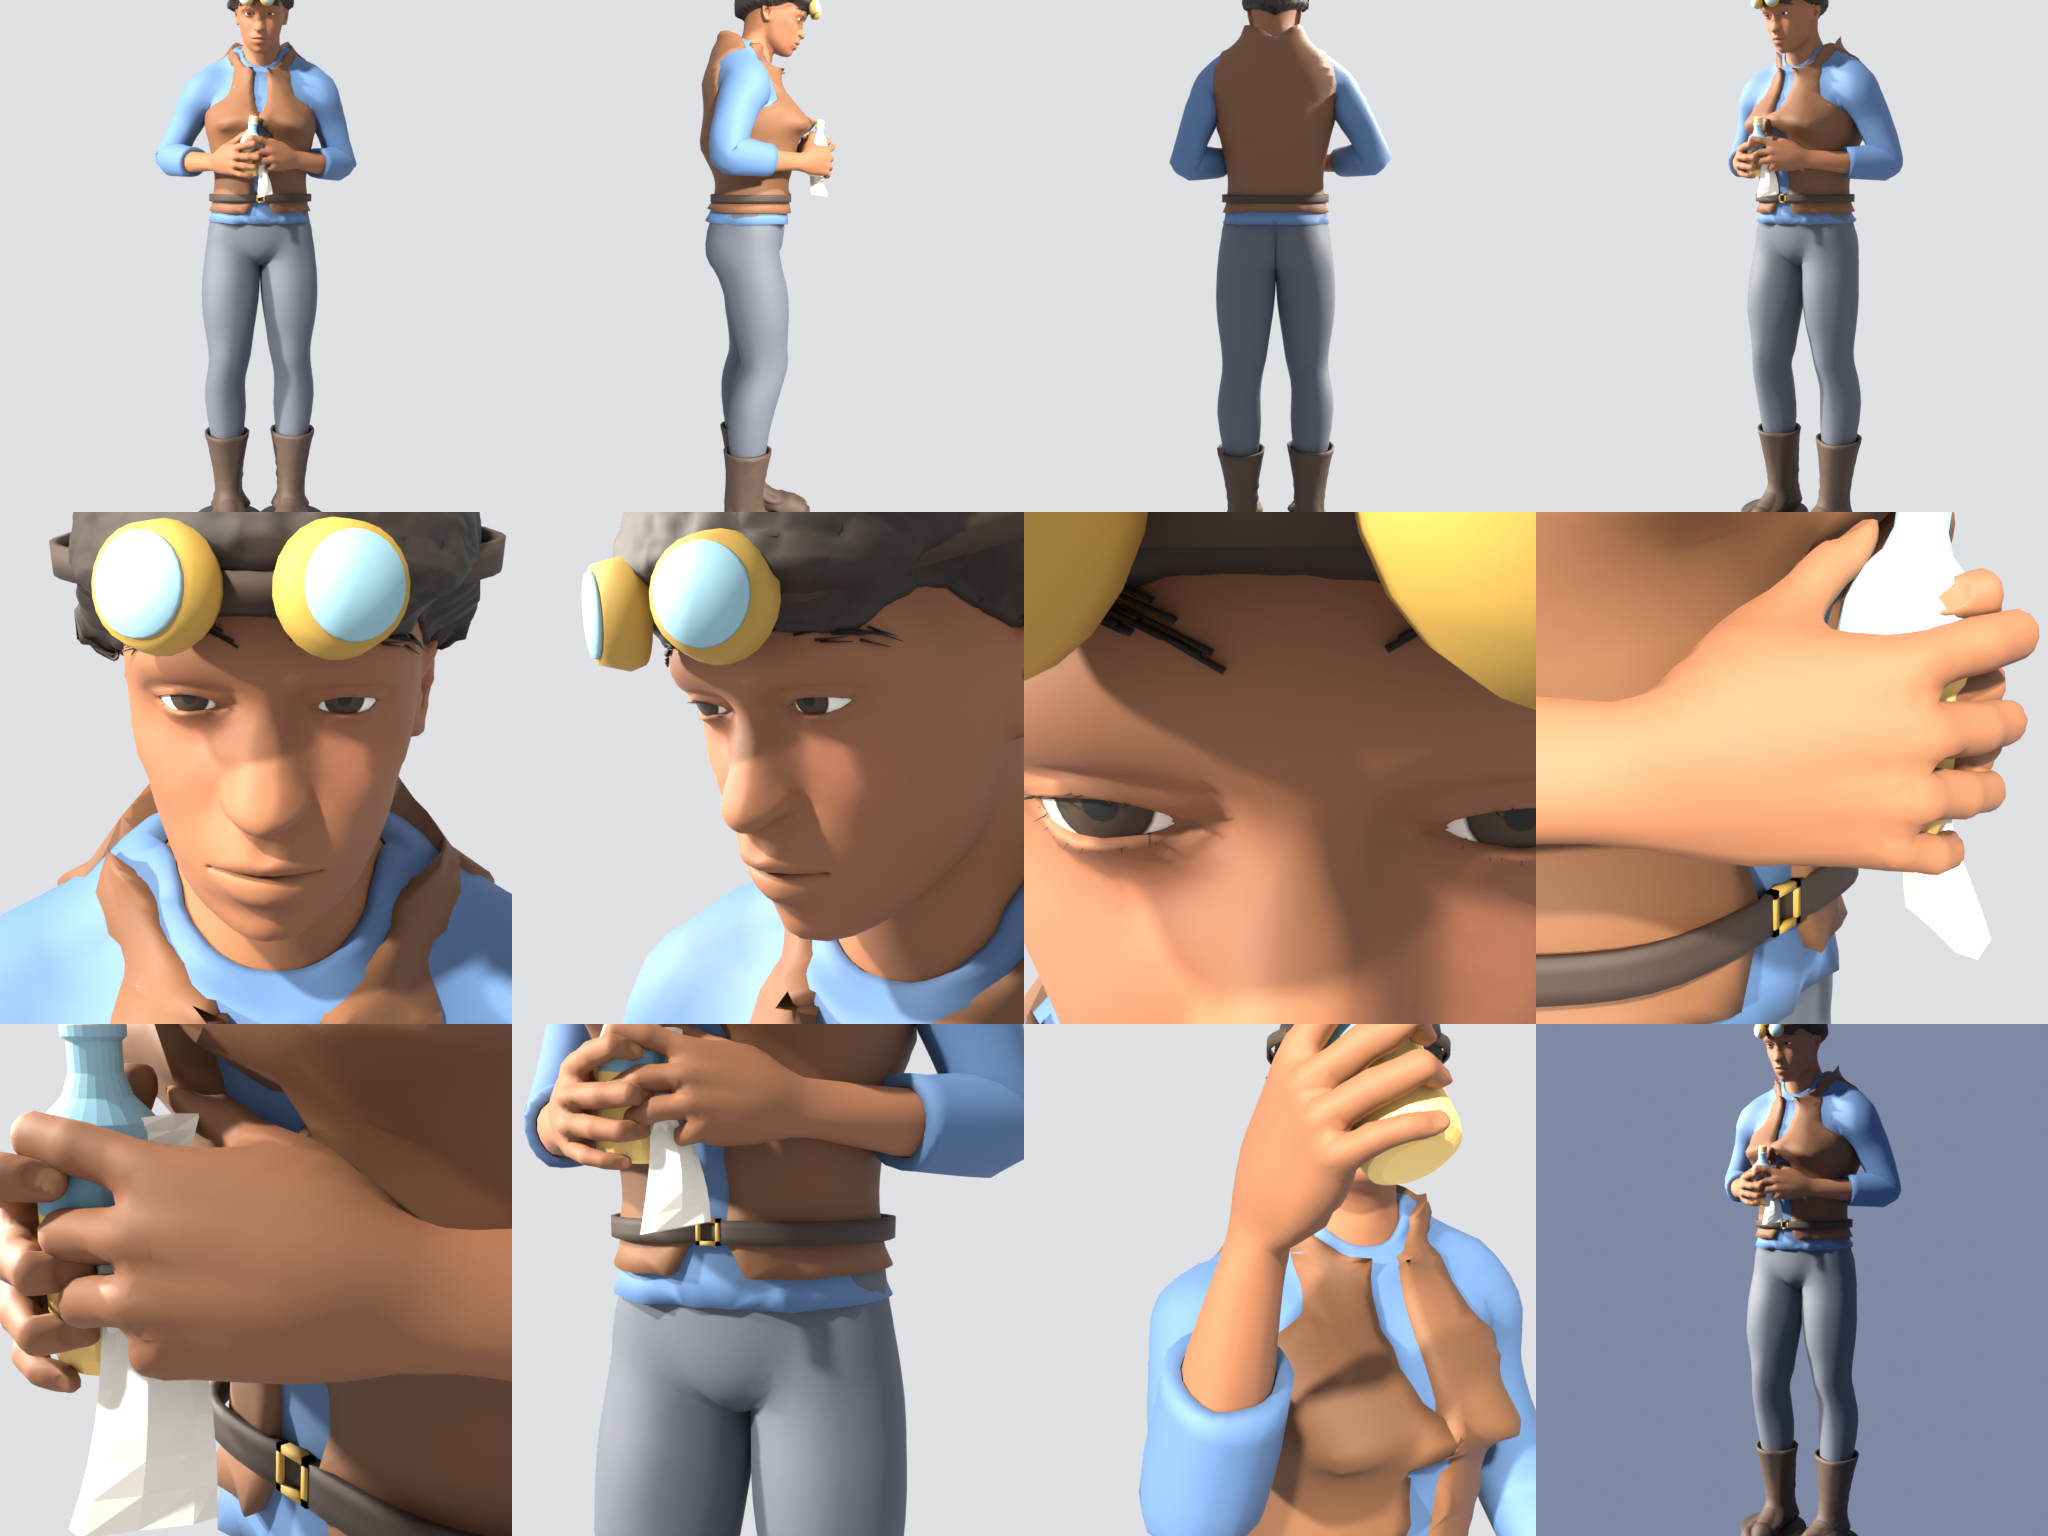
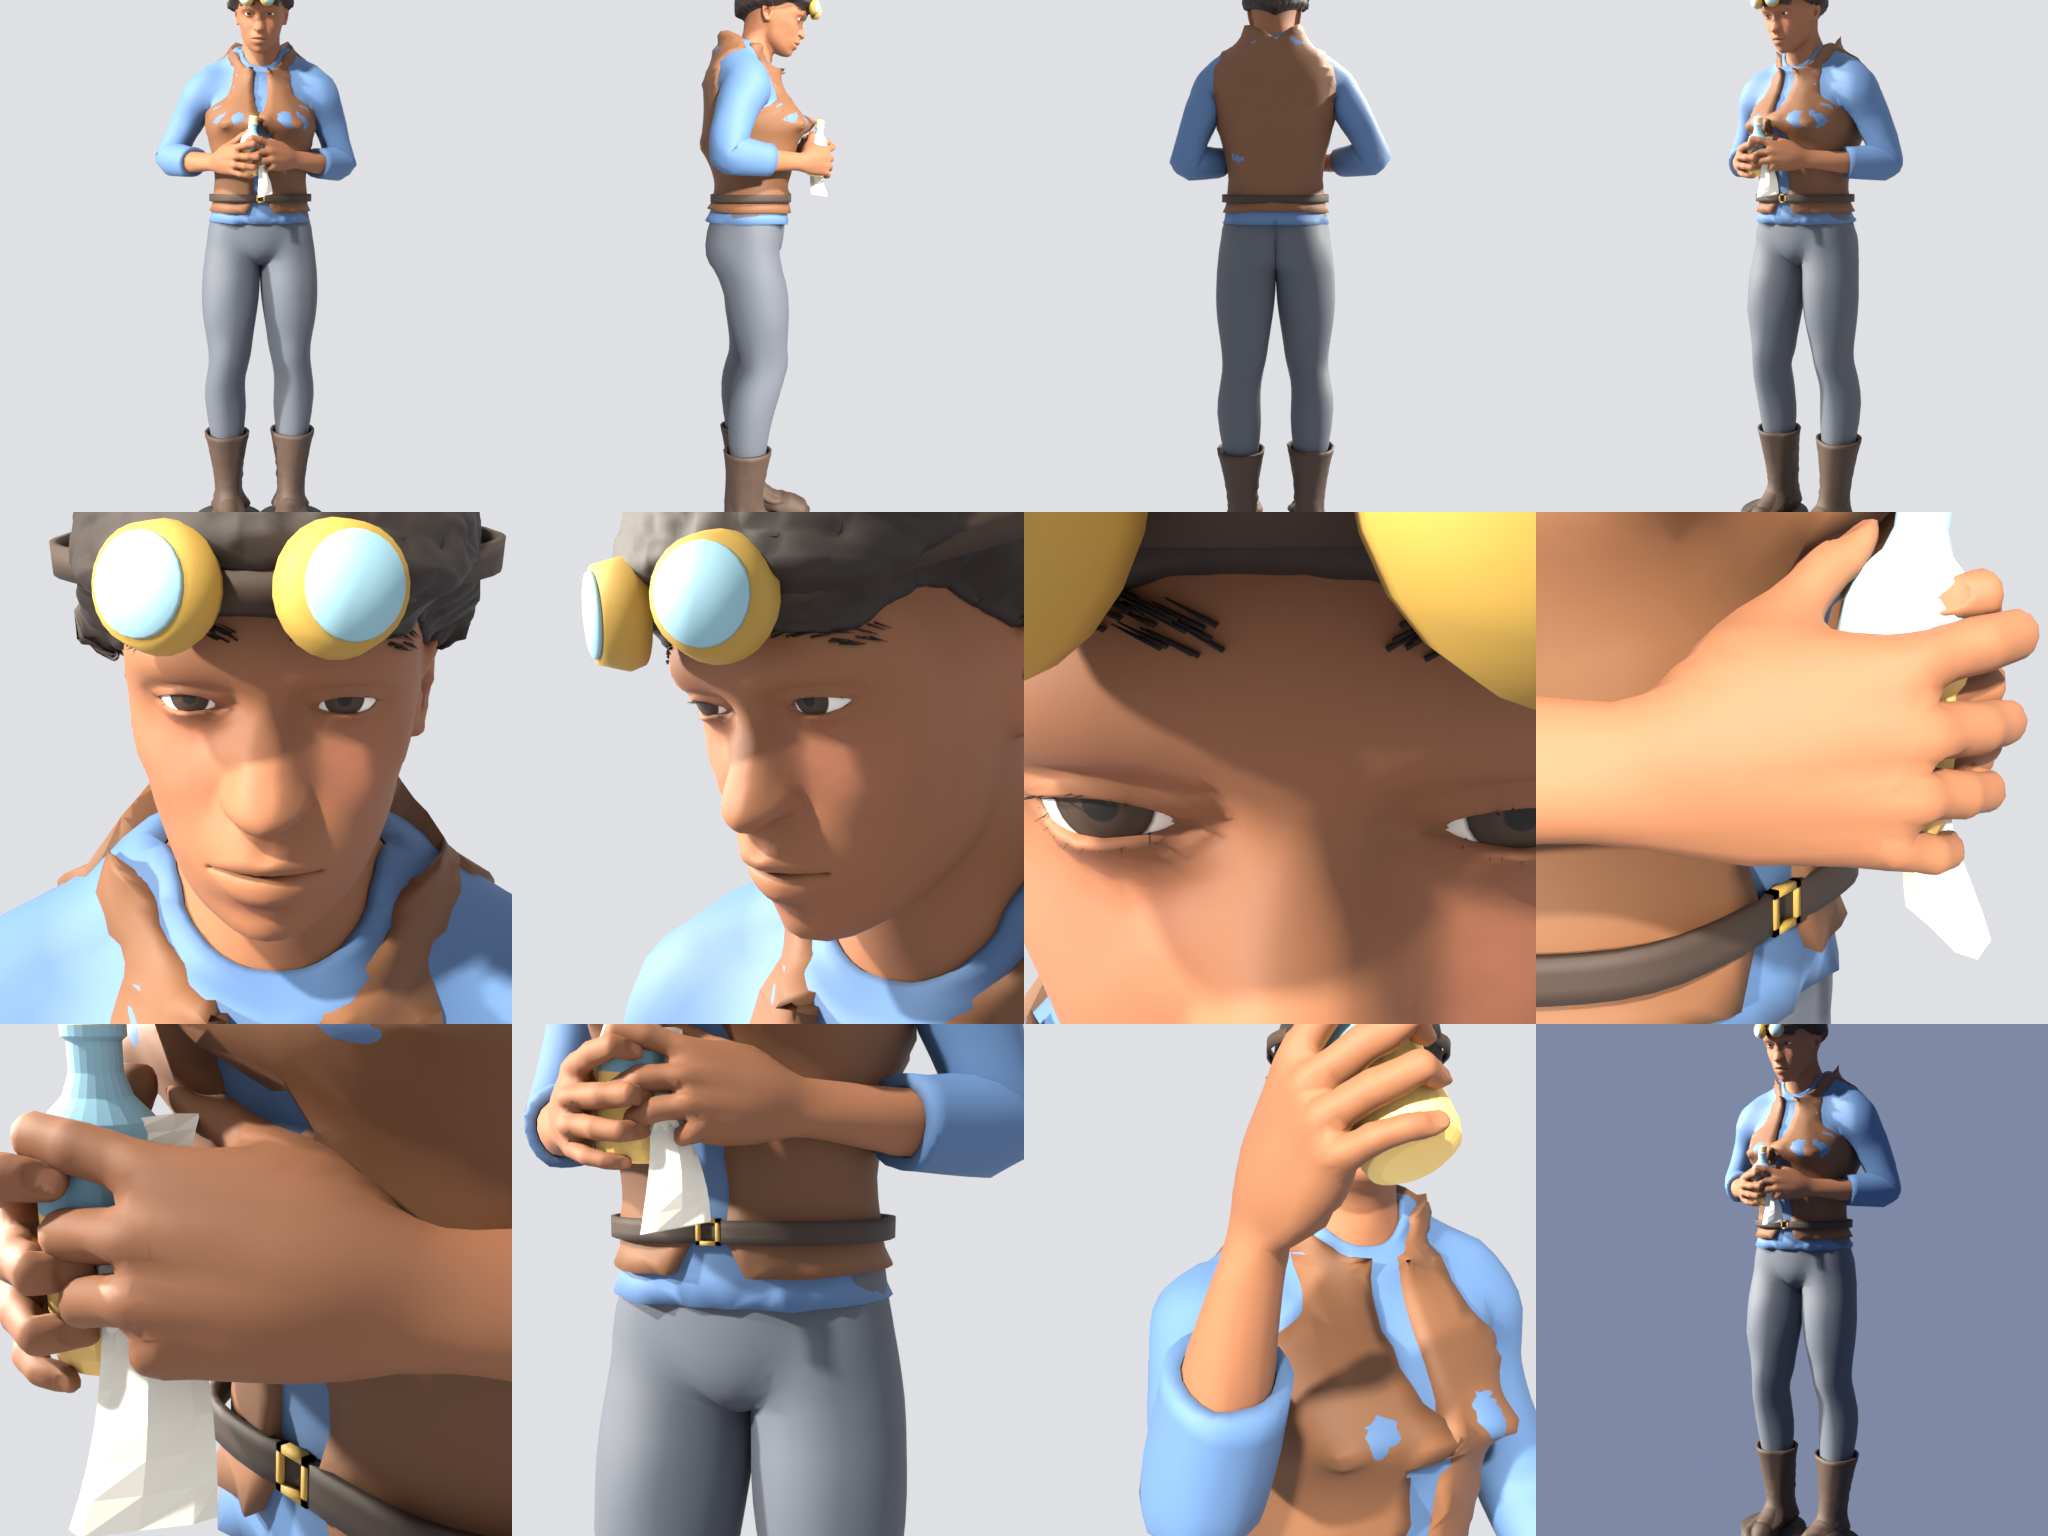
Traders: QA report, before/after comparison sheets, docs for place version 34
Claude-Session: https://claude.ai/code/session_019HQdRtaVvkdiNt14iayRs2

diff --git a/scripts/compare_characters.py b/scripts/compare_characters.py
@@ -1,0 +1,42 @@
+#!/usr/bin/env python3
+"""Before / after sheet per trader from the QA sheets of blender/render_character_qa.py.
+
+    python3 scripts/compare_characters.py      -> previews/characters/compare_<role>.png
+
+Row 1 = before (previews/characters/before), row 2 = after (previews/characters/after), same cameras:
+front, three-quarter, head front, eyes, right hand, clothing.  Needs Pillow.
+"""
+from pathlib import Path
+
+from PIL import Image, ImageDraw
+
+ROOT = Path(__file__).resolve().parents[1]
+ROLES = ("selma", "nyra", "lio", "aron", "esme")
+TILES = (0, 3, 4, 6, 7, 9)            # indices in the 4-column views sheet
+
+
+def tiles(path):
+    img = Image.open(path)
+    size = img.width // 4
+    return [img.crop(((k % 4) * size, (k // 4) * size, (k % 4 + 1) * size, (k // 4 + 1) * size)) for k in TILES], size
+
+
+def main():
+    for role in ROLES:
+        before, size = tiles(ROOT / f"previews/characters/before/{role}_views.png")
+        after, _ = tiles(ROOT / f"previews/characters/after/{role}_views.png")
+        label = 28
+        out = Image.new("RGB", (size * len(TILES), 2 * size + 2 * label), (24, 24, 28))
+        draw = ImageDraw.Draw(out)
+        for row, (name, row_tiles) in enumerate((("vorher", before), ("nachher", after))):
+            y = row * (size + label)
+            draw.text((8, y + 6), f"{role} - {name}", fill=(235, 235, 235))
+            for k, t in enumerate(row_tiles):
+                out.paste(t, (k * size, y + label))
+        path = ROOT / f"previews/characters/compare_{role}.png"
+        out.save(path)
+        print(f"wrote {path.relative_to(ROOT)}")
+
+
+if __name__ == "__main__":
+    main()

diff --git a/docs/CHARACTER_QA_REPORT.md b/docs/CHARACTER_QA_REPORT.md
@@ -1,0 +1,83 @@
+# Händler-Überarbeitung: QA-Bericht
+
+Stand: Place-Version 34 (2026-11-19).
+
+- **Vorher:** Commit `bb97683` / Place 32.
+- **Bilder:**
+  - `previews/characters/before/` und `after/`: je Händler `_views.png` (12 Ansichten) und `_motion.png` (8 Momente der Idle-Schleife);
+  - `after/<rolle>_face.png`: neutral und jede Gesichtspose, frontal und Dreiviertel;
+  - `previews/characters/compare_<rolle>.png`: Vorher/Nachher mit gleichen Kameras.
+- **Render-Hinweis:** Die Bögen zeigen Vertexfarben ohne gebackene Textur und mit neutralem Licht. Helle Hauttöne (Esme, Nyra) überstrahlen darin; das ist eine Schwäche des Prüflichts, nicht der Figur. In Roblox kommen Textur und AO dazu, aber das ist dort nicht gesehen.
+
+## Was sich geändert hat (alle Händler)
+
+| Bereich | Vorher | Nachher | Beleg |
+|---|---|---|---|
+| Kleidungskanten | gezackt, zerfranst | exakt geschnitten, glatte Säume | compare-Bögen, Spalten 1, 2 und 6 |
+| Augen | dicker schwarzer Lidstrich, verschlafen | einzelne Wimpern, offene Lider, weichere Augenschatten | compare-Bögen, Spalte 4 |
+| Haare | Bänder wie Papier oder Späne | Volumen mit Locken- bzw. Feinstruktur, auslaufender Haaransatz; Nyras lange Strähnen rund und hinter den Schultern | compare-Bögen, Spalte 3 |
+| Bart (Aron) | Bandsträhnen | dichter Vollbart als Volumen, Lippen frei, bewegt sich mit dem Kiefer | `compare_aron.png` |
+| Haltung | symmetrisch, steif | Standbein, Beckenkippung, Gegenneigung der Wirbelsäule, gebeugtes Spielbein | Rückansichten in `_views.png` |
+| Leder (Latz, Westen) | zeichnete die Bauchmuskeln nach | liegt flacher auf | `after/aron_views.png` |
+| Gesicht | unbeweglich | 16 Gesichtsknochen; blinzeln, lächeln, Brauen, konzentrieren, sprechen, skeptisch | `after/<rolle>_face.png` |
+| Finger | eingebacken, keine Knochen | 30 Fingerknochen, Griff als Ruhepose | Place-Messung: 73 Bones |
+| Animation | 8 Bilder/s, Halt an jedem Schlüssel, eine Schleife, kein Blick | Schlüssel exakt ausgewertet, monoton kubisch; zwei Idle-Clips; Begrüßen; Blick, Augen, Blinzeln, Mimik; Detailstufen | `docs/CHARACTER_ANIMATION_SPEC.md` |
+
+## Tatsächlich ausgeführte Prüfungen
+
+| Prüfung | Ergebnis | Status |
+|---|---|---|
+| `scripts/check_all.sh` (Gameplay, Place, Registry, Griffe/Handgelenke über alle Clips, Lua = Python, Weltvalidierung) | alle bestanden | PASS_AUTOMATED |
+| `tests/test_market_pose.py`: 14 400 Knochenrotationen und Gesichtsgewichte, Lua gegen Python | größte Abweichung 0,00000° bzw. 1e-16 | PASS_AUTOMATED |
+| `blender/validate_grips.py`: 10 Griffe | 0 Pflichtverletzungen; Arons Hammer trifft das Erz zweimal mit 0,0037 Studs (≈ 1 mm) | PASS_AUTOMATED |
+| Build-Checks (`build_characters.py`): Dreiecke je Mesh ≤ 19 500, ≤ 4 Einflüsse, Werkzeug nicht in der Haut über alle Clips und das Begrüßen | 0 Probleme. Arons Hammerstiel kommt der Haut beim Übergang zum Ausholen bis 0,018 Studs (≈ 5 mm) nahe, Grenze 0,03 | PASS_AUTOMATED |
+| Upload der 5 FBX, Laden im Place, Serverstart | 5 Rigs, je 9–12 skinned + texturierte Meshes, 73 Knochen, Füße auf dem Boden | PASS_IMPORT |
+| Posen-Nachbau auf dem Roblox-Server mit `MarketPose` (`idle`, `idle2`, Begrüßen) | Handgelenke höchstens 0,0001 Studs neben Blender | PASS_RUNTIME (nur Server-Mathematik und Knochenhierarchie) |
+| Client-Animation (Überblendung, Blick, Augen, Blinzeln, Mimik, Detailstufen) | nur Syntax- und Mock-Prüfung | UNVERIFIED |
+| Hautverformung von Gesicht, Fingern und Handgelenken in Roblox | nicht gesehen (Roblox rechnet sie nur beim Rendern) | UNVERIFIED |
+| Leistung (78 000–138 000 Dreiecke je Händler, 73 Knochen, Client-Rechenzeit) | nicht gemessen | UNVERIFIED |
+
+## Qualitätsmatrix (eigene Bewertung nach Ansicht der Bögen)
+
+Gewichte laut Auftrag: Anatomie 15, Gesicht 20, Hände 20, Bewegung 20, Kleidung 10, Identität 10, Technik 5. Das ist ein internes Schema und kein Nachweis von Realismus. Bewegung wurde nur in Blender (Kontaktbögen) und als Zahlenvergleich gesehen, nicht laufend in Roblox.
+
+| Händler | Anatomie | Gesicht | Hände | Bewegung | Kleidung | Identität | Technik | Summe | Status |
+|---|---:|---:|---:|---:|---:|---:|---:|---:|---|
+| Lio | 11 | 13 | 15 | 12 | 6 | 7 | 4 | **68** | FAIL (Ziel 90) |
+| Esme | 11 | 12 | 14 | 11 | 6 | 7 | 4 | **65** | FAIL (Ziel 90) |
+| Selma | 11 | 12 | 15 | 11 | 7 | 8 | 4 | **68** | FAIL (Ziel 90) |
+| Nyra | 11 | 12 | 13 | 11 | 6 | 8 | 4 | **65** | FAIL (Ziel 90) |
+| Aron | 12 | 11 | 15 | 12 | 6 | 8 | 4 | **68** | FAIL (Ziel 90) |
+
+Begründung der Abzüge (für alle ähnlich):
+
+- **Gesicht:**
+  - Die Form ist MakeHuman-Durchschnitt: glaubwürdig, aber ohne skulptierte Einzelheiten wie Poren, Falten oder Lippenrelief.
+  - Keine Normal-Maps; die Mimik wirkt nur in der Nähe.
+  - Arons Mund wirkt durch die Bartgrenze leicht geöffnet.
+- **Hände:** Griffe gemessen und gerendert. Finger in Roblox beweglich, aber zur Laufzeit nicht animiert; keine Nägel als eigene Form.
+- **Bewegung:** Systematisch stark verbessert, aber in Roblox nie laufend gesehen. Die Schleifen sind von Hand gesetzte Schlüssel, keine Bewegungsaufnahme.
+- **Kleidung:** Saubere Kanten, aber keine echten Stofffalten aus Simulation, keine Nähte, keine Material-Maps.
+- **Lio:** Bei „gegen das Licht“ verdeckt die Hand aus der Schrägansicht das Auge.
+- **Esme:**
+  - Das Stielende läuft ≈ 3,9 cm vor dem Kinn vorbei. Der Ellbogen steht an seiner Grenze von 140°; tiefer geht die Hand nur mit einem Griff weiter unten am Stiel (neues Griffprofil).
+  - Helle Haut überstrahlt im Prüflicht.
+- **Nyra:**
+  - Der Haaransatz unter der Kapuze ist unruhig.
+  - Die Kristallspitze reicht an die Haare.
+  - Die Handfläche liegt 1,2 cm vom Kristall entfernt.
+
+## Was für das 90-Punkte-Ziel fehlt (konkret)
+
+1. **Oberflächendetail:**
+   - Normal- und Roughness-Maps für Haut, Stoff und Leder aus einem hochauflösenden Sculpt gebacken.
+   - In Roblox über `SurfaceAppearance`, das laut Doku per Skript fast nicht setzbar ist. Ob der FBX-Import eine `SurfaceAppearance` anlegt, muss mit einem Probe-Asset getestet werden.
+2. **Haare als Karten mit Alpha:** Nur mit `SurfaceAppearance.AlphaMode`, also abhängig von Punkt 1.
+3. **Sichtprüfung im laufenden Spiel** (Studio oder Gerät): Hautverformung, Mimik, Blick, Überblendung, Leistung.
+4. **Fingeranimation** für Übergänge und Gesten (Knochen vorhanden).
+5. **Bewegungen** mit mehr Gewichtsverlagerung über Becken und Beine; dafür braucht es Bein-IK, sonst rutschen die Füße.
+
+## Grenzen dieser Umgebung
+
+- Kein Roblox Studio und kein Gerät. Gemessen wird per Open Cloud nur auf dem Server; alles Clientseitige ist UNVERIFIED.
+- Blender läuft ohne GPU (Cycles auf der CPU). Ein Händler-Build mit Texturen dauert ~25 min.

diff --git a/docs/MARKET_MERCHANTS.md b/docs/MARKET_MERCHANTS.md
@@ -131,12 +131,14 @@ Jeder Händler ist ein eigenes Modell-Asset (IDs in `roblox/VillageAssetIds.lua`
 `ArcaneMarketAssets`). Beim Serverstart wird es nach `ServerStorage.ArcaneMarketAssets` geladen.
 Fehlt ein Rig, erscheint eine einfache Ersatzfigur.
 
-Im Place gemessen (Version 32, `scripts/roblox_verify_server.py`):
-- Je Händler 9 Meshes, alle skinned und texturiert, und 26 Knochen. Die Füße stehen auf dem Boden.
-- Höhen 6,41–6,76 Studs, Gesamtdreiecke 88 000–100 000 je Figur.
-- Der Server stellt die Schleife mit derselben Formel wie der Client für mehrere Zeitpunkte nach.
-  Die Handgelenke (jetzt selbst animiert) liegen dabei höchstens 0,0005 Studs neben den in Blender
-  berechneten Positionen.
+Im Place gemessen (Version 34, `scripts/roblox_verify_server.py`):
+- Je Händler 9–12 Meshes, alle skinned und texturiert, und 73 Knochen (inkl. 16 Gesichts- und 30 Fingerknochen). Die Füße stehen auf dem Boden.
+- Höhen 6,40–6,75 Studs, Gesamtdreiecke 78 000–138 000 je Figur.
+- Der Server stellt die Clips mit `MarketPose` (wie der Client) für mehrere Zeitpunkte nach.
+  Die Handgelenke liegen dabei höchstens 0,0001 Studs neben den in Blender berechneten Positionen.
+
+Überarbeitung 2026-11-19 (Gesichts-Rig, Finger, Clips, Blick, saubere Kleidung): `docs/CHARACTER_OVERHAUL_AUDIT.md`,
+`docs/CHARACTER_RIG_SPEC.md`, `docs/CHARACTER_ANIMATION_SPEC.md`, `docs/CHARACTER_QA_REPORT.md`.
 
 Nicht gesehen: die laufende Animation und die Hautverformung auf einem echten Gerät. Die
 Hautverformung rechnet Roblox nur beim Rendern, auf dem Server lässt sie sich nicht messen.

diff --git a/docs/BLOCKERS_STUDIO.md b/docs/BLOCKERS_STUDIO.md
@@ -319,3 +319,10 @@ Weiter UNVERIFIED_IN_STUDIO:
   Verformung nur beim Rendern; Blender verwendet dieselben Gewichte, aber nicht denselben Renderer).
 - Die Finger sind beim Bauen gegriffen und fest eingebacken; in Roblox gibt es keine Fingerknochen.
 
+## Nachtrag 2026-11-19: Händler mit Gesichts-Rig und Animationszuständen
+
+Place-Version 34, auf dem Server geprüft: 5 Rigs mit 73 Knochen, Posen über `MarketPose` auf 0,0001 Studs
+gleich Blender. Weiter UNVERIFIED_IN_STUDIO: der Client `MarketIdle.client.lua` (Clip-Wechsel, Begrüßen,
+Blick, Augen, Blinzeln, Mimik, Detailstufen), die Hautverformung an Gesicht und Fingern, die Leistung
+(bis 138 000 Dreiecke je Händler). Details und offene Punkte: `docs/CHARACTER_QA_REPORT.md`.
+
